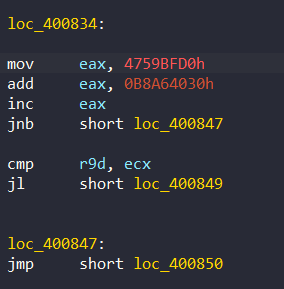
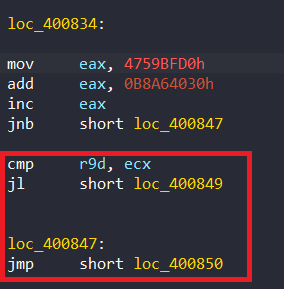
update

Changed region(s): [[0.0, 0.4983, 0.9014, 0.9965]]

diff --git a/RETrain/Obfuscate/Readme.md b/RETrain/Obfuscate/Readme.md
@@ -24,13 +24,10 @@ Ví dụ:
 ``` 
 crackmexxx yourflag
 ```
-![](./img/loc.png)
-
-Ta có thể thấy ở dòng 11 thì chương trình ghi giá trị vào tại địa chỉ `loc_4006E5` mà ở dòng 13 lại gọi hàm `loc_4006E5` nên có thể ida đã nhận dạng code sai. Để tìm hiểu nguyên nhân thì mình nhấn đúp vào `loc_4006E5`
 
 ![](./img/loc_4006E5.png)
 
-Ta có thể thấy ida không nhận ra được code và nhìn code ida nhận diện rất lạ. Nên mình sẽ thử debug xem chương trình làm gì với những dòng code này.
+Ta có thể thấy ida không nhận ra được code và nhìn code ida nhận diện rất lạ => hàm `loc_4006E5` là shellcode bị mã hóa. Nên mình sẽ thử debug xem chương trình làm gì với những dòng code này.
 
 Do đây không phải file exe nên ta không thể debug bằng **local window debugger** được nên chúng ta phải dùng **Remote Linux Debugger**
 
@@ -90,7 +87,7 @@ Mình mò ở trên hàm main thì thấy giá trị rax là địa chỉ của 
  not     ecx
  dec     ecx
 ```
-`repne`(repeat while not equal); `scasb` đếm theo từng byte một. lệnh ` repne scasb` là để đếm số byte trong chuỗi với địa chỉ của chuỗi là `EDI` và bộ đếm `ECX`. Do lệnh này sẽ đếm và trừ ecx nên sau khi xong ta phải lật ngược lại bằng lệnh `not` còn 2 lệnh `dec ecx` bỏ đi cũng không ảnh hưởng gì.
+`repne`(repeat while not equal); `scasb` đếm theo từng byte một. lệnh ` repne scasb` là để đếm số byte trong chuỗi với địa chỉ của chuỗi là `EDI` và bộ đếm `ECX`. `repne scasb` sẽ lặp lại lệnh `scasb` cho đến khi byte tại vị trí con trỏ `RDI` bằng giá trị byte tại thanh ghi `AL` hoặc thanh ghi `ecx` trở thành 0. Do lệnh này sẽ đếm và trừ ecx nên sau khi xong ta phải lật ngược lại bằng lệnh `not`.
 
 ![](./img/jns.png)
 
@@ -110,7 +107,7 @@ Hàm này lại có thêm 1 vòng lặp nữa. Như ta đã biết thì ecx là 
 
 ![](./img/p7.png)
 
-Mình đã gạch những lệnh jump làm rối code. Sau khi gạch thì 
+Mình đã khoanh những đoạn code chúng ta cần để ý. Còn những lệnh jump kia chỉ làm rối code. 
 ```
 movsxd  r10, r11d
 mov     rbx, rdx
@@ -148,7 +145,7 @@ Lệnh `test r10b,r10b` thức chất là lệnh `AND` nhưng `test` không lưu
 
 Nếu bằng `r10 = 1` thì nhảy vào `loc_4008857`. Sau đó 4 dòng đầu (không tính code làm rối) gán `r11b` = kí tự đang xét hiện tại của string ta nhập vào.
 
-Tương tự như thế thì `al` = kí tự đang xét hiện tại của địa chỉ `unk_4008EB`. Sau đó so sánh `r11b` với `al`. Từ đó mình nghĩ string ở địa chỉ của `unk_400EB` là cipher
+Tương tự như thế thì `al` = kí tự đang xét hiện tại của địa chỉ `unk_4008EB`. Sau đó so sánh `r11b` với `al`. Từ đó mình nghĩ các byte ở địa chỉ của `unk_400EB` là cipher
 
 ![](./img/cipher.png)
 
@@ -169,7 +166,7 @@ Sau khi out vòng lặp thì `mov` giá trị của `r10b` vào `al` và khôi p
 
 Sau khi nhảy về hàm main thì lập tức nhảy đến `loc_40090D`. Ở đây thực hiên so sánh `rax với 0`. Nếu rax = 1 tức flag đã đúng (=> r10b không bị thay đổi). Còn rax = 0 tức flag đã sai.
 
-Từ những dữ kiện trên, mình đã viết script python để khái quát lại việc encode và kiểm tra flag có giống cipher không:
+Từ những dữ kiện trên, mình đã viết script python để khái quát lại việc encrypt và kiểm tra flag có giống cipher không:
 
 ```python
 flag =[ 0x70, 0x63, 0x74, 0x66, 0x7B]
